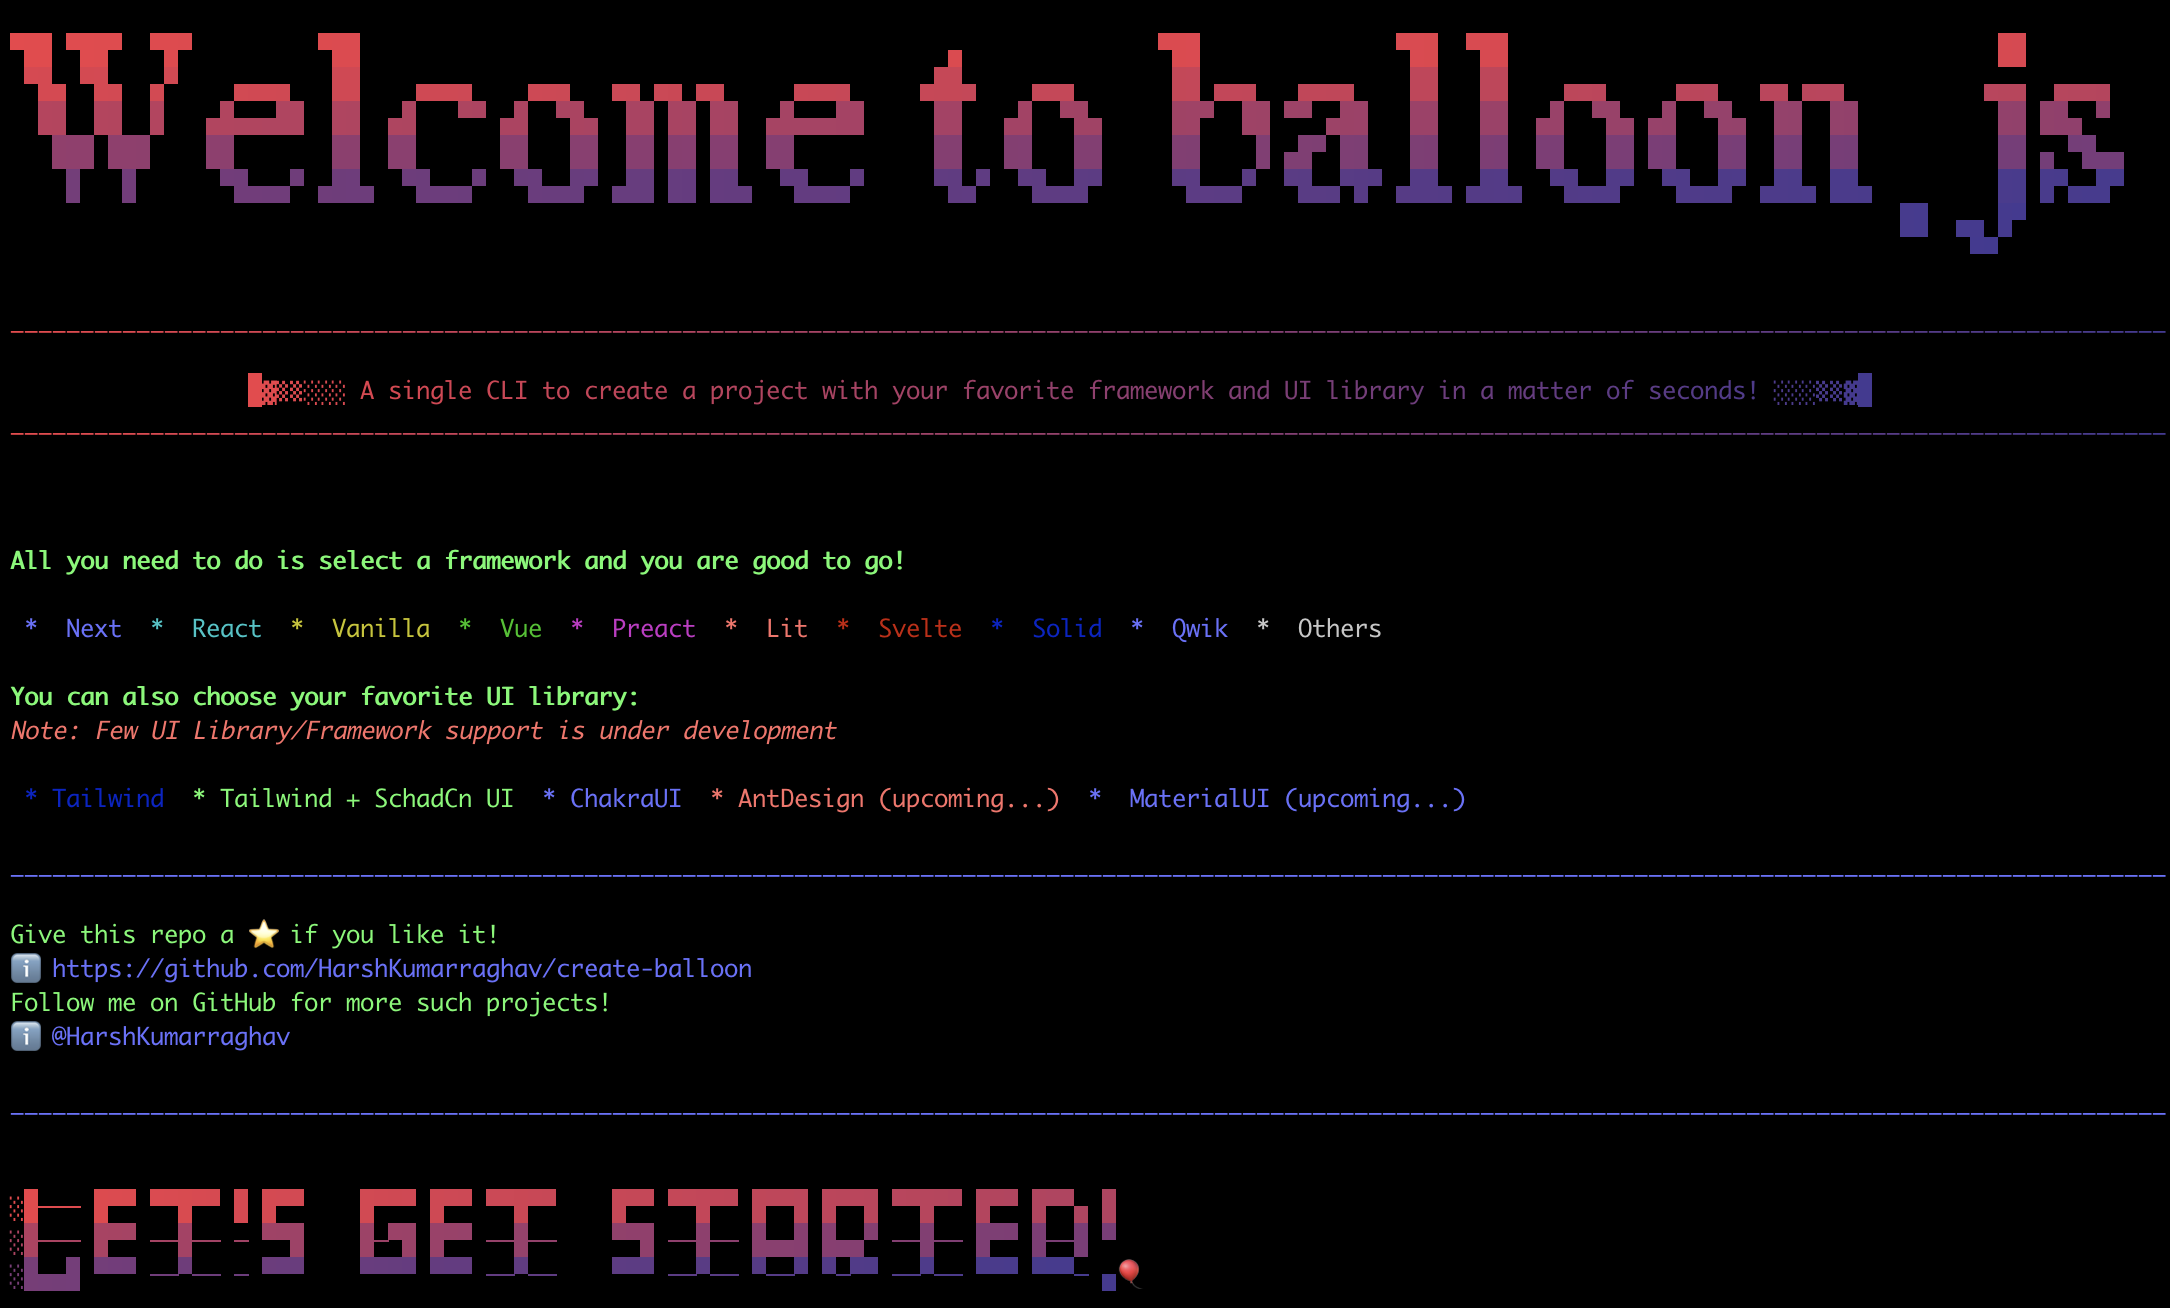
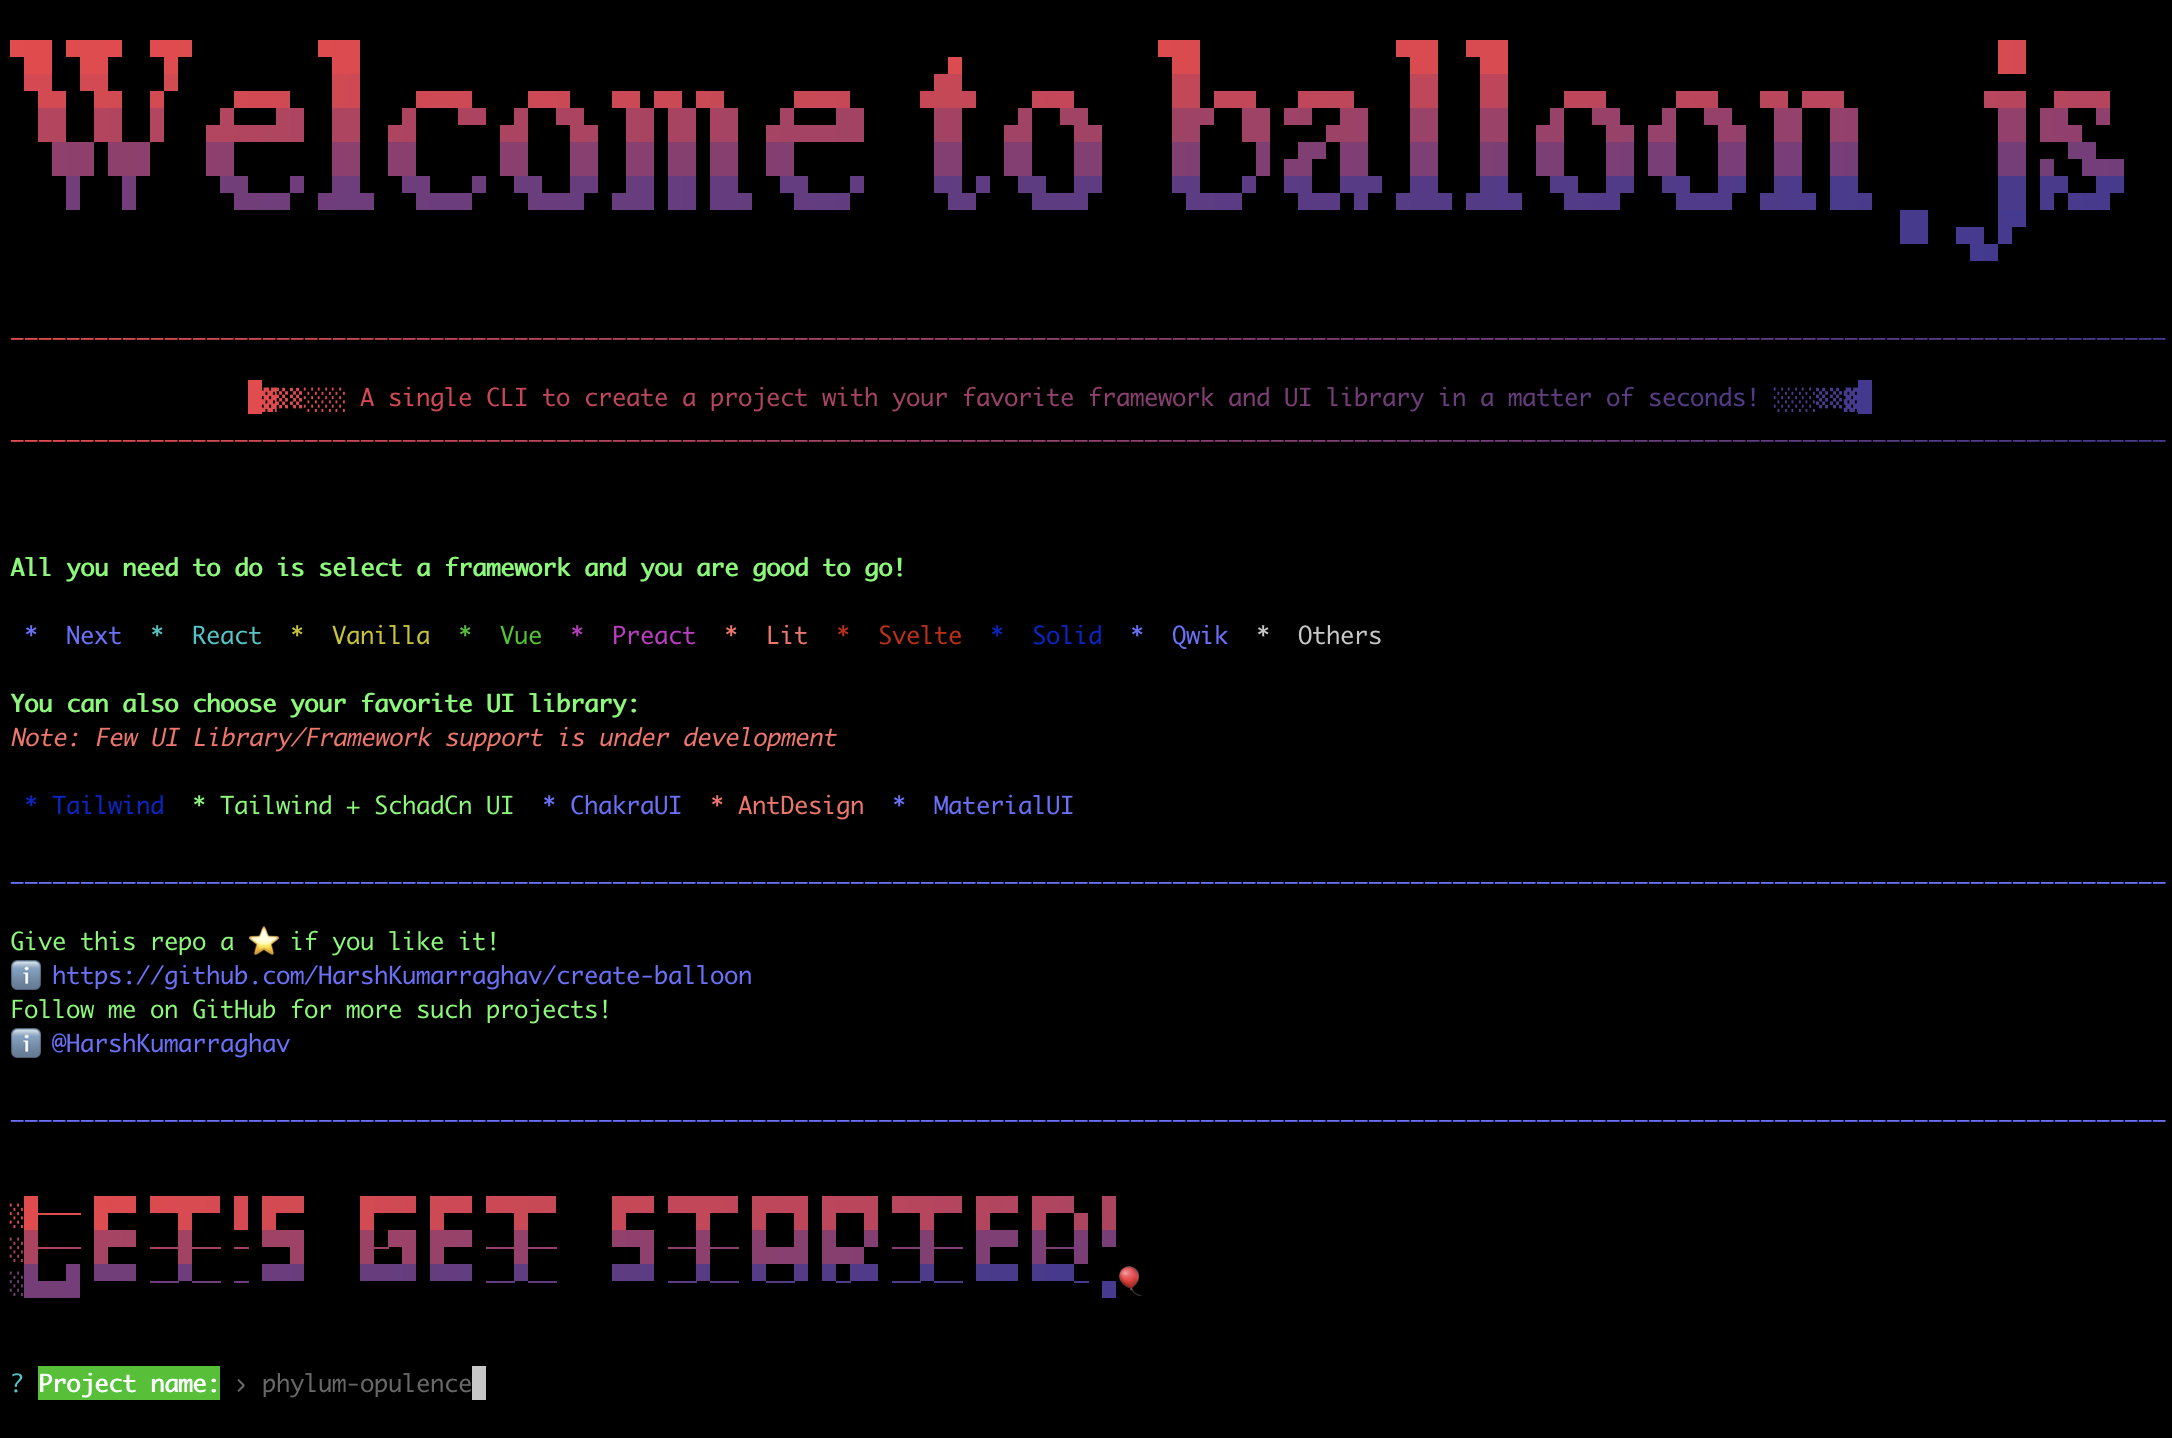
added screen and updated the UI

diff --git a/README.md b/README.md
@@ -2,7 +2,7 @@
 
 Unleash Your Creative Power with Create-balloon CLI - The Ultimate App Starter Kit Generator.
 
-![Create-balloon](https://github.com/HarshKumarraghav/balloon.js/assets/72187191/9df83923-f2a2-41b7-8424-4c47650d2dd2)
+![Create-balloon](https://github.com/HarshKumarraghav/balloon.js/assets/72187191/cc79fc02-beff-4639-984e-b657465f2d9f)
 
 ## Installation
 
